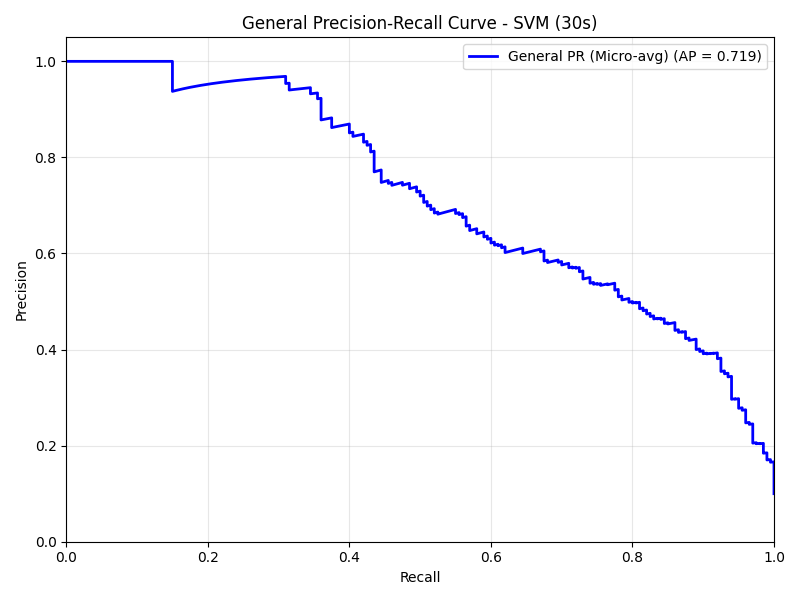
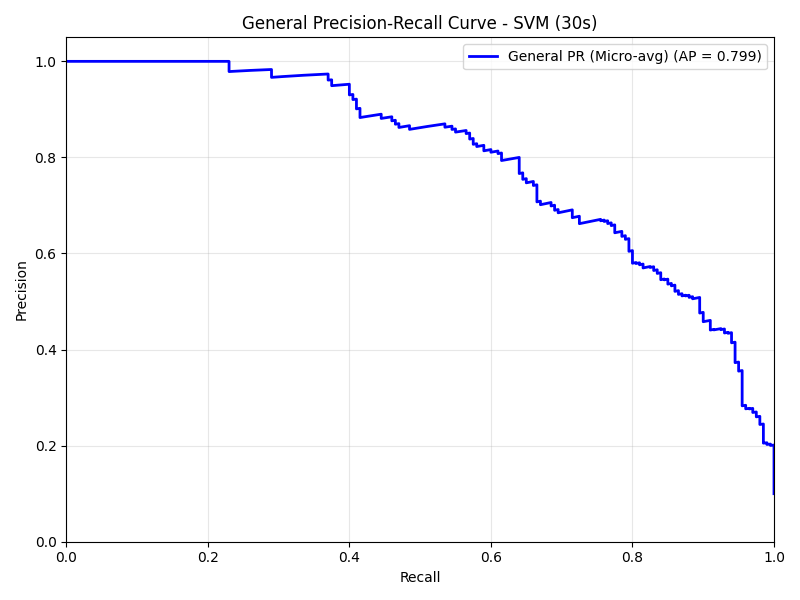
params 30s

diff --git a/Analisis_RF.py b/Analisis_RF.py
@@ -8,11 +8,11 @@ from sklearn.ensemble import RandomForestClassifier
 
 # --- CONFIGURACIÓN ---
 RANDOM_STATE = 42
-SAVE_DIR = "Plots/Justificacion Parametros RF"
+SAVE_DIR = "Plots/Justificacion Parametros RF (30s)"
 os.makedirs(SAVE_DIR, exist_ok=True)
 
 # Valors optims 3s:  n_estimators=300, max depth=8, min_samples_leaf=16, min_sample_split=2
-# Valors optims 30s: n_estimators=, max depth=, min_samples_leaf=, min_sample_split=
+# Valors optims 30s: n_estimators=50, max depth=7, min_samples_leaf=10, min_sample_split=2
 
 # =============================================================================
 # MAIN
@@ -21,8 +21,8 @@ def main():
     print("--- 🔍 GENERANDO JUSTIFICACIÓN DE PARÁMETROS (RANDOM FOREST) SENSE CV ---")
     
     # 1. Cargar datos (Utilitzem split_datos_3s com en el teu codi original)
-    X_train, X_test, y_train, y_test, label_encoder, scaler = split_datos_3s(random_state=RANDOM_STATE)
-    
+    #X_train, X_test, y_train, y_test, label_encoder, scaler = split_datos_3s(random_state=RANDOM_STATE)
+    X_train, X_test, y_train, y_test, label_encoder, scaler = split_datos_30s(random_state=RANDOM_STATE)
     # 2. DEFINIR EL MODELO BASE CON PARÁMETROS FIJOS
     fixed_params = {
         'random_state': RANDOM_STATE,
@@ -38,8 +38,8 @@ def main():
 
     # --- GRÀFICA 1: JUSTIFICACIÓ DE MAX_DEPTH ---
     # Convertim a np.array per compatibilitat de tipus
-    depth_range = np.array([5, 10, 15, 20, 30]) 
-    model_depth = RandomForestClassifier(**fixed_params, n_estimators=300)
+    depth_range = np.array([2, 5, 8, 10, 15, 20, 30]) 
+    model_depth = RandomForestClassifier(**fixed_params, n_estimators=50)
     plot_single_validation_curve(
         model_depth, X_train, y_train, X_test, y_test, # <--- PASSEM TEST SET
         param_name="max_depth", 
@@ -50,9 +50,9 @@ def main():
     )
     
     # --- GRÀFICA 2: JUSTIFICACIÓ DE MIN_SAMPLES_LEAF ---
-    leaf_range = np.array([1, 2, 4, 8, 16, 32])
+    leaf_range = np.array([1, 2, 4, 8, 10, 12, 13, 14, 15, 16, 32])
     model_leaf = RandomForestClassifier(
-        **fixed_params, n_estimators=300, max_depth=8
+        **fixed_params, n_estimators=50, max_depth=7
     )
     plot_single_validation_curve(
         model_leaf, X_train, y_train, X_test, y_test, # <--- PASSEM TEST SET
@@ -64,9 +64,9 @@ def main():
     )
 
     # --- GRÀFICA 3: JUSTIFICACIÓ DE MIN_SAMPLES_SPLIT ---
-    split_range = np.array([2, 5, 10, 15, 20])
+    split_range = np.array([2, 5, 10, 15, 20, 50, 100])
     model_split = RandomForestClassifier(
-        **fixed_params, n_estimators=300, max_depth=8, min_samples_leaf=16
+        **fixed_params, n_estimators=50, max_depth=7, min_samples_leaf=10
     )
     plot_single_validation_curve(
         model_split, X_train, y_train, X_test, y_test, # <--- PASSEM TEST SET
@@ -80,7 +80,7 @@ def main():
     # --- GRÀFICA 4: JUSTIFICACIÓ DE N_ESTIMATORS ---
     estimators_range = np.array([50, 100, 200, 300, 500])
     model_estimators = RandomForestClassifier(
-        **fixed_params, max_depth=8, min_samples_split=2, min_samples_leaf=16
+        **fixed_params, max_depth=7, min_samples_split=2, min_samples_leaf=10
     )
     plot_single_validation_curve(
         model_estimators, X_train, y_train, X_test, y_test, # <--- PASSEM TEST SET
@@ -95,16 +95,16 @@ def main():
     plt.suptitle("Analisis Parámetros Random Forest", fontsize=16, fontweight="bold")
     plt.tight_layout()
 
-    plt.savefig(os.path.join(SAVE_DIR, "AA_Justificacion_Parametros_RF_Sense_CV.png"))
+    plt.savefig(os.path.join(SAVE_DIR, "Justificacion_Parametros_RF.png"))
     plt.close()
 
     # --- GRÀFICA FINAL: CURVA DE APRENDIZAJE AMB ELS PARÀMETRES ESCOLLITS ---
     final_model = RandomForestClassifier(
         **fixed_params,
-        n_estimators=300,
-        max_depth=8,
-        min_samples_split=2,
-        min_samples_leaf=16
+        n_estimators=50, # Amb 3s n_estimators=300 i amb 30s n_estimators=50
+        max_depth=7, # Amb 3s max_depth=8 i amb 30s max_depth=7
+        min_samples_split=2, # Amb 3s min_samples_split=2 i amb 30s min_samples_split=2
+        min_samples_leaf=10 # Amb 3s min_samples_leaf=16 i amb 30s min_samples_leaf=10
     )
     
     # plot_final_learning_curve es manté amb CV, que és l'estàndard per a aquesta corba.

diff --git a/Analisis_LR.py b/Analisis_LR.py
@@ -8,17 +8,20 @@ from sklearn.linear_model import LogisticRegression
 
 # --- CONFIGURACIÓ GLOBAL ---
 RANDOM_STATE = 42
-SAVE_DIR = "Plots/Justificacion_Parametros_LR"
+SAVE_DIR = "Plots/Justificacion Parametros LR"
 os.makedirs(SAVE_DIR, exist_ok=True)
-# Valors optims amb 3s: C = 5.0, iter = 200
-# Valors optims amb 30s: C = , iter = 
 
+# Valors optims amb 3s: C = 5.0, iter = 200
+# Valors optims amb 30s: C = 0.3, iter = 50
 
 def main():
     print("--- 🔬 LABORATORI D'ANÀLISI REGRESSIÓ LOGÍSTICA ---")
     
     # 1. Carregar dades (X_train i X_test són essencials)
-    X_train, X_test, y_train, y_test, label_encoder, scaler = split_datos_3s(random_state=RANDOM_STATE)
+
+    #X_train, X_test, y_train, y_test, label_encoder, scaler = split_datos_3s(random_state=RANDOM_STATE)
+    X_train, X_test, y_train, y_test, label_encoder, scaler = split_datos_30s(random_state=RANDOM_STATE)
+
     
     # 2. Definir Model Base per a Exploració
     fixed_params = {
@@ -53,7 +56,7 @@ def main():
     iter_range = np.array([5, 10, 25, 50, 100, 200, 500, 1000])
     
     # Utilitzem el millor C trobat per avaluar max_iter
-    model_iter = LogisticRegression(**fixed_params, C=5)
+    model_iter = LogisticRegression(**fixed_params, C=0.3) # Amb 3s C=5,30s i amb 30 C=0.3)
     
     # CRIDA A LA NOVA FUNCIÓ
     plot_single_validation_curve(
@@ -76,8 +79,8 @@ def main():
     # --- GRÀFICA FINAL: CURVA DE APRENENTATGE ---
     final_model = LogisticRegression(
         **fixed_params,
-        C=5.0, 
-        max_iter=200 
+        C=0.3, # Amb 3s C=5,30s i amb 30 C=0.3
+        max_iter=50 # Amb 3s max_iter=200 i amb 30s max_iter=50
     )
     
     # plot_final_learning_curve es manté amb CV, que és l'estàndard per a aquesta corba.

diff --git a/Analisis_SVM.py b/Analisis_SVM.py
@@ -8,11 +8,11 @@ from sklearn.svm import SVC
 
 # --- CONFIGURACIÓ GLOBAL ---
 RANDOM_STATE = 42
-SAVE_DIR = "Plots/Justificacion Parametros SVC (3s)"
+SAVE_DIR = "Plots/Justificacion Parametros SVC (30s)"
 os.makedirs(SAVE_DIR, exist_ok=True)
 
 # Valors optims 3s: C = 1.0 , Gamma = 0.005
-# Valors optims 30s: C = , Gamma = 
+# Valors optims 30s: C = 0.8, Gamma = 0.01
 
 # ======================================================
 # MAIN
@@ -22,9 +22,8 @@ def main():
     print("\n--- 🔬 LABORATORI D'ANÀLISI SVC ---")
 
     # 1. Carregar i preprocesar dades
-    X_train, X_test, y_train, y_test, label_encoder, scaler = split_datos_3s(
-        random_state=RANDOM_STATE
-    )
+    #X_train, X_test, y_train, y_test, label_encoder, scaler = split_datos_3s(random_state=RANDOM_STATE)
+    X_train, X_test, y_train, y_test, label_encoder, scaler = split_datos_30s(random_state=RANDOM_STATE)
 
     # 2. Model base
     fixed_params = {
@@ -55,7 +54,7 @@ def main():
     # 4. VALIDATION CURVE — gamma
     # -------------------------
     gamma_range = np.array([0.0005, 0.001, 0.005, 0.01, 0.05, 0.1, 0.3])
-    model_gamma = SVC(**fixed_params, C=1) 
+    model_gamma = SVC(**fixed_params, C=0.8) # Amb 3s C=1.0 i amb 30s C=0.8
     plot_single_validation_curve(
         model_gamma,
         X_train, y_train, X_test, y_test, 
@@ -78,8 +77,8 @@ def main():
     # -------------------------
     final_model = SVC(
         kernel='rbf',
-        C=1,
-        gamma=0.005,
+        C=0.8, # Amb 3s C=1 i amb 30s C=0.8
+        gamma=0.01,  # Amb 3s C=0.005 i amb 30s C=0.01
         probability=True,
         random_state=RANDOM_STATE
     )

diff --git a/main.py b/main.py
@@ -128,8 +128,9 @@ def main():
         # Definició de models
         model_map_classificacio = {
             '1': lambda: executar_knn(X_train, X_test, y_train, y_test, label_encoder, data_type, best_k=4, best_weights='distance', best_p=1),
-            '2': lambda: executar_random_forest(X_train, X_test, y_train, y_test, label_encoder, data_type, n_estimators=300, max_depth=8, min_samples_split=2, min_samples_leaf=16),
-            '3': lambda: executar_svm(X_train, X_test, y_train, y_test, label_encoder, data_type, C=1, gamma=0.005), #3s(c=1,gamma=0.005), 30s (c=1,gamma=0.002)
+            '2': lambda: executar_random_forest(X_train, X_test, y_train, y_test, label_encoder, data_type, n_estimators=50, max_depth=7, min_samples_split=2, min_samples_leaf=10),
+            #3s (n_estimators=300, max depth=8, min_samples_leaf=16, min_sample_split=2), 30s (n_estimators=50, max depth=7, min_samples_leaf=10, min_sample_split=2)
+            '3': lambda: executar_svm(X_train, X_test, y_train, y_test, label_encoder, data_type, C=0.8, gamma=0.01), #3s(c=1,gamma=0.005), 30s (c=1,gamma=0.002)
             '4': lambda: executar_xgboost(X_train, X_test, y_train, y_test, label_encoder, scaler, data_type),
             '5': lambda: executar_regressio_logistica(X_train, X_test, y_train, y_test, label_encoder, data_type),
             '6': lambda: executar_decision_tree(X_train, X_test, y_train, y_test, label_encoder, data_type),

diff --git a/Models.py b/Models.py
@@ -398,7 +398,7 @@ def executar_xgboost(X_train, X_test, y_train, y_test, label_encoder, scaler, da
 
 def executar_regressio_logistica(X_train, X_test, y_train, y_test, label_encoder, data_type, 
                                  C=5.0, penalty='l2', solver='lbfgs', max_iter=200, random_state=42):
-    # AMb 3s(C=0.2,iter=50),30s(c=0.01,iter=50)
+    # AMb 3s(C=5.0,iter=200),30s(c=0.3,iter=50)
     """
     Entrena, avalua i genera els plots del model de Regressió Logística
     per a la classificació multiclase.
